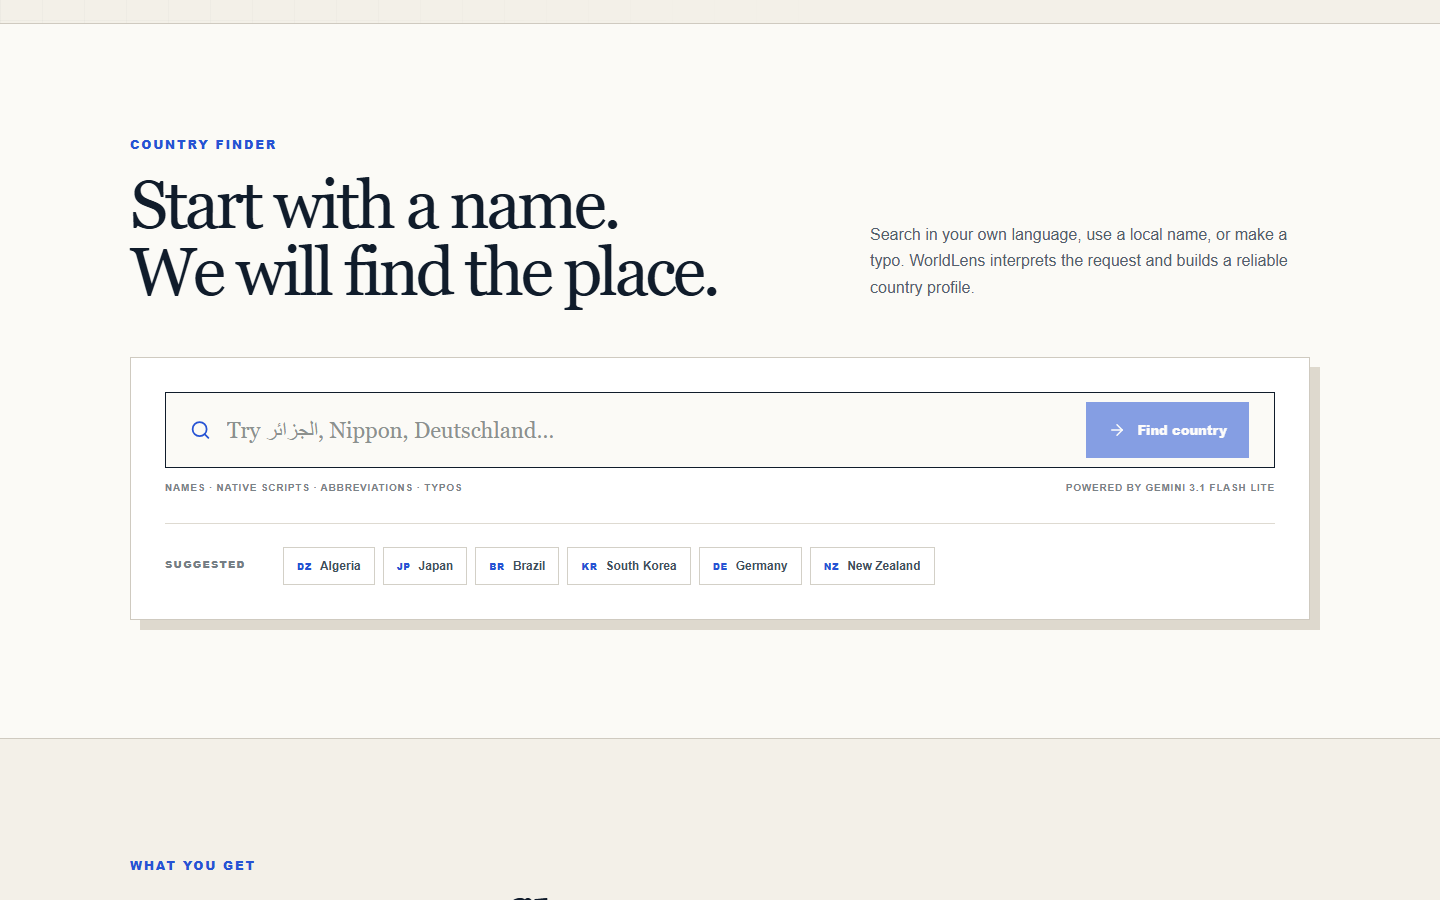
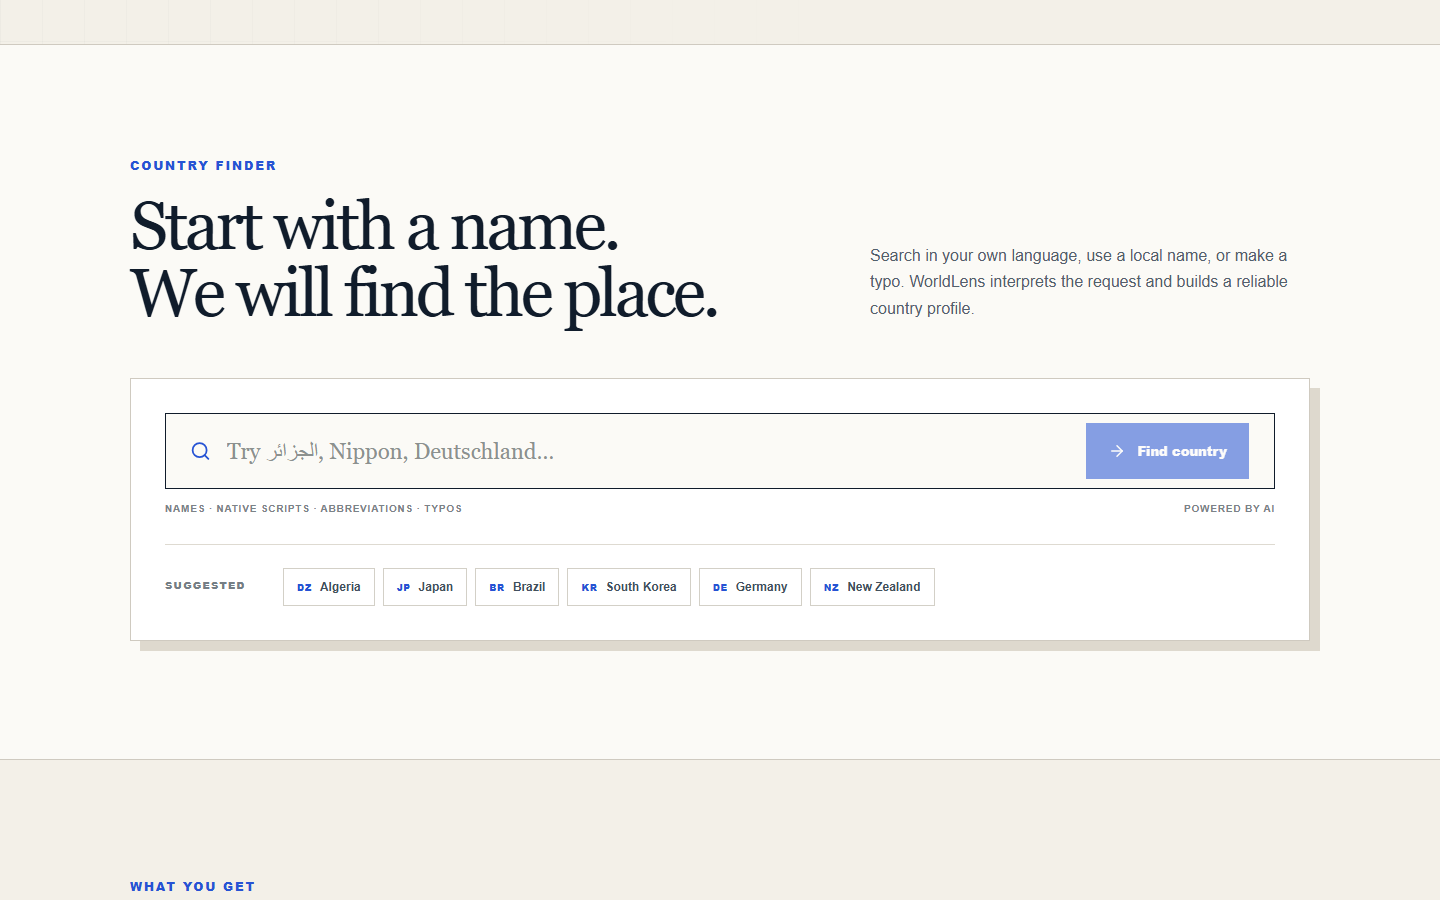
Expand app galleries and refresh WorldLens copy

diff --git a/inner-site/src/components/showcase/projects/projectData.ts b/inner-site/src/components/showcase/projects/projectData.ts
@@ -60,13 +60,13 @@ export const projects: PortfolioProject[] = [
     "name": "WorldLens",
     "subtitle": "Multilingual Country Explorer",
     "category": "Web · AI",
-    "description": "Explore countries in any language. WorldLens uses Gemini to resolve native names, abbreviations, and imperfect spelling, then presents trusted geographic facts in a clear editorial atlas.",
+    "description": "Explore countries in any language. WorldLens uses AI to resolve native names, abbreviations, and imperfect spelling, then presents geographic facts in a clear editorial atlas.",
     "features": [
       "Multilingual country search and typo interpretation",
       "Structured country profiles from local reference data",
       "Interactive maps with Leaflet"
     ],
-    "tags": "Next.js · TypeScript · Gemini · OpenRouter · Leaflet",
+    "tags": "Next.js · TypeScript · AI · Leaflet",
     "screenshots": [
       {
         "file": "worldlens.png",
@@ -138,6 +138,21 @@ export const projects: PortfolioProject[] = [
       {
         "file": "sanad/verification.png",
         "caption": "Verification home — text, voice, and image entry options.",
+        "portrait": true
+      },
+      {
+        "file": "sanad/result.png",
+        "caption": "Verification results — matched narration, grading, and source context.",
+        "portrait": true
+      },
+      {
+        "file": "sanad/explanation.png",
+        "caption": "Source details — references and an explanation of the narration.",
+        "portrait": true
+      },
+      {
+        "file": "sanad/reading-dark.png",
+        "caption": "Reading mode — focused Arabic text in a dark theme.",
         "portrait": true
       }
     ],
@@ -267,8 +282,23 @@ export const projects: PortfolioProject[] = [
         "portrait": true
       },
       {
+        "file": "outsider/categories.png",
+        "caption": "Category selection — choose the theme for the next round.",
+        "portrait": true
+      },
+      {
+        "file": "outsider/role-reveal.png",
+        "caption": "Private role card — reveal each player's role before the round.",
+        "portrait": true
+      },
+      {
         "file": "outsider/voting.png",
         "caption": "Voting phase — players choose who they suspect is the outsider.",
+        "portrait": true
+      },
+      {
+        "file": "outsider/guess.png",
+        "caption": "Outsider's guess — choose the secret word from the answer wall.",
         "portrait": true
       },
       {
